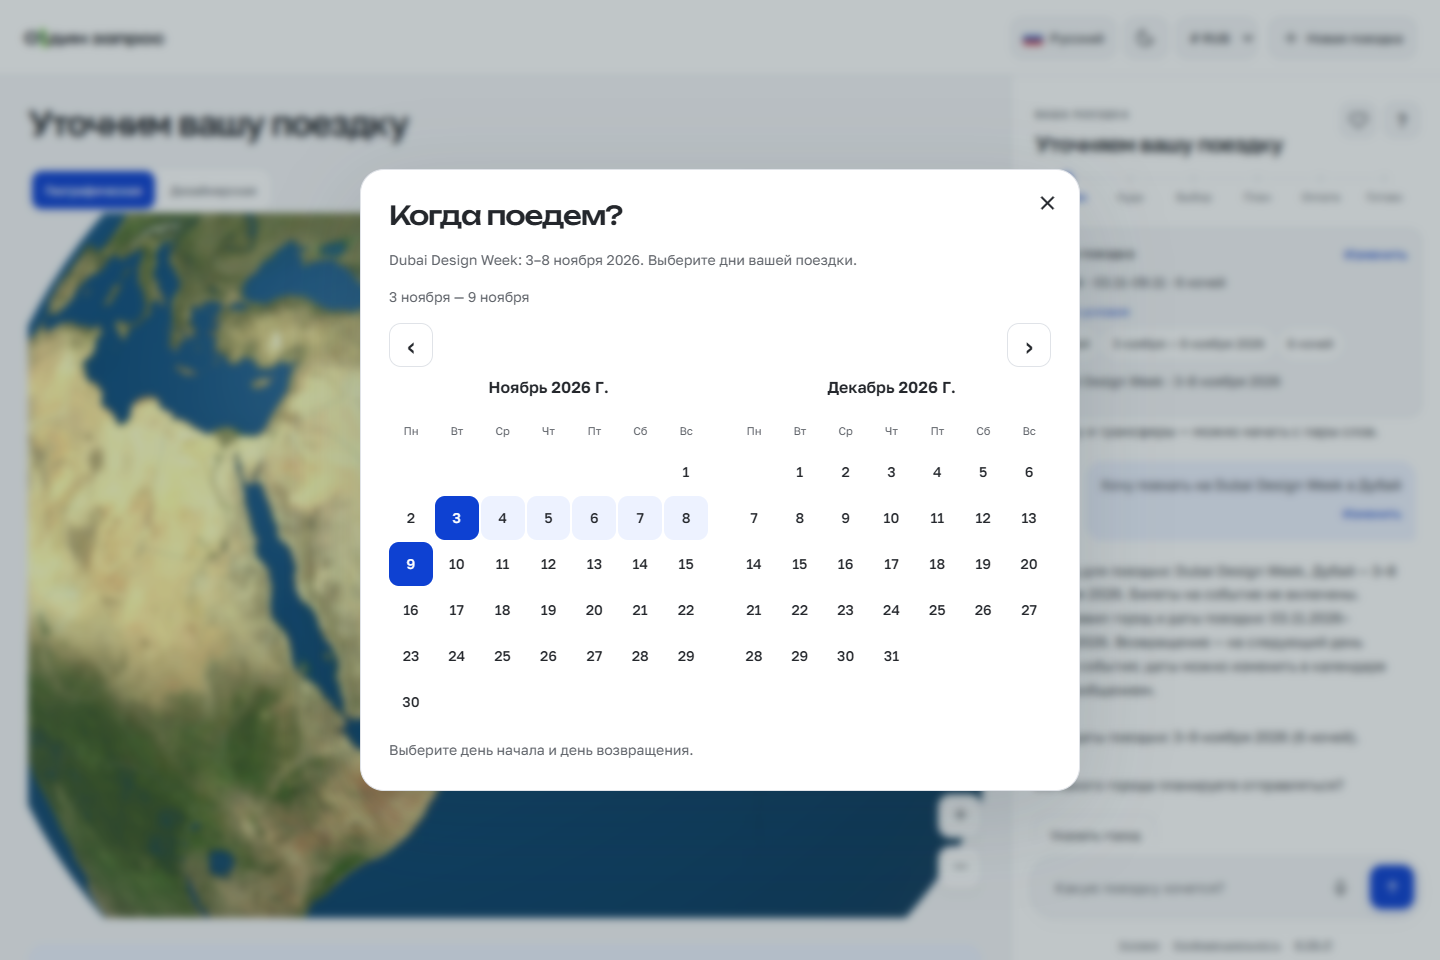
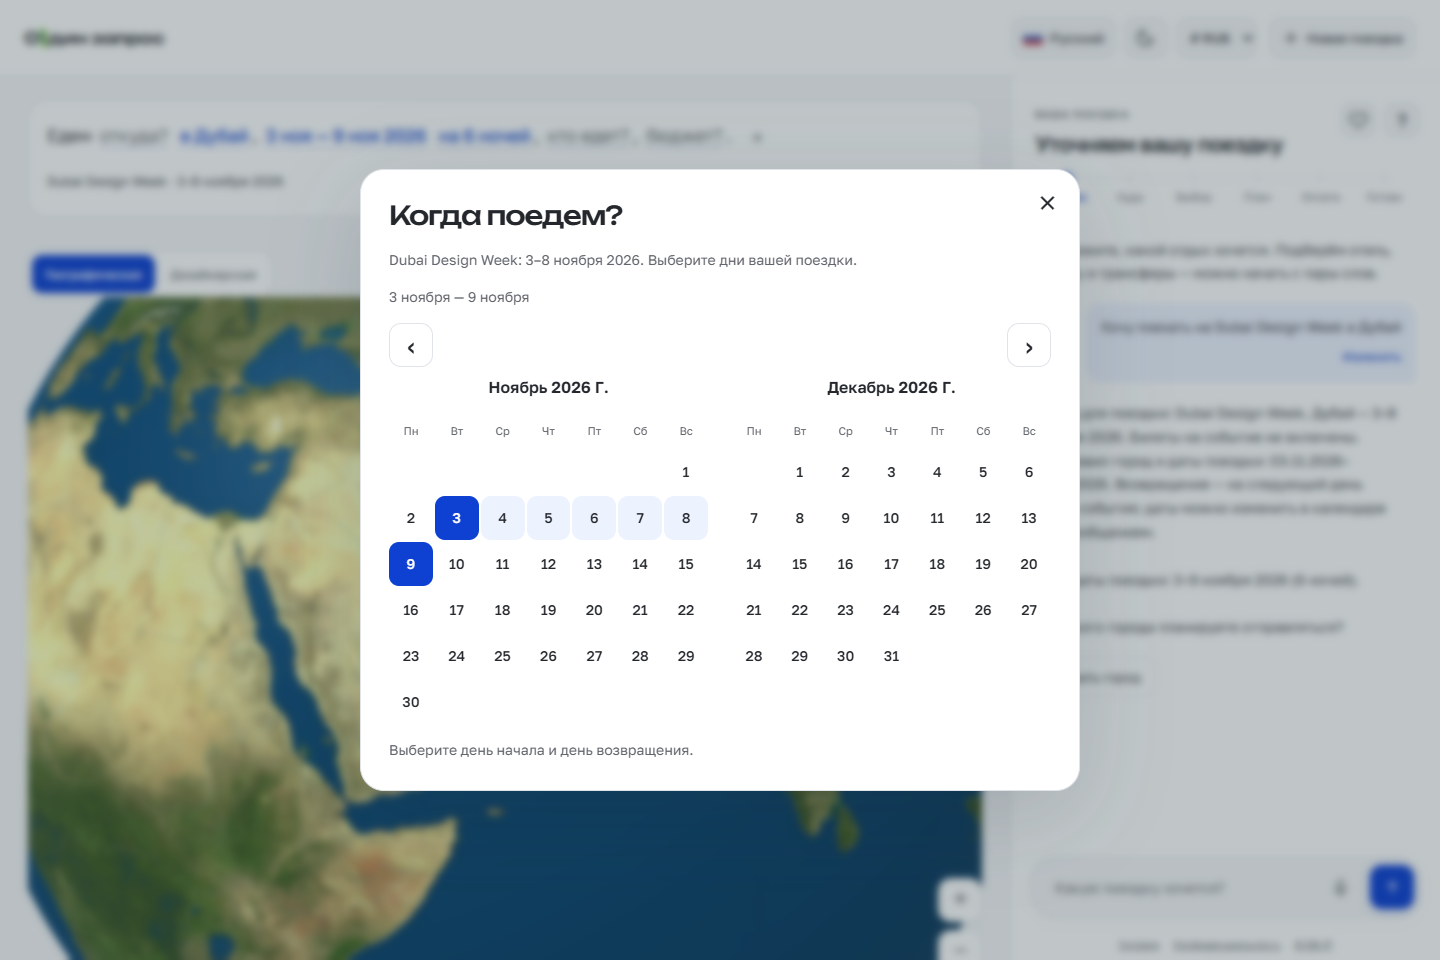
Verify integrated trip sentence and publish review evidence

diff --git a/docs/38_Ревью_диалога_и_архитектуры_20261029.md b/docs/38_Ревью_диалога_и_архитектуры_20261029.md
@@ -5,6 +5,8 @@
 Исходная версия: `origin/artemiy`, `4d215d97a5a6513618bd7274d62779beed559156`.
 Рабочая ветка: `codex/dialogue-architecture-20261029`.
 Первый проверенный коммит реализации: `cfa53782d7f5cde693fede5a07c21c0bef4ee820`.
+
+Во время ревью общая ветка обновилась. В итог включён `origin/artemiy` на `6693512c4a6dba729084f57032ee568af529b303`: редактируемая строка условий над картой и компактное представление на телефоне. Конфликт календаря разрешён с сохранением нового обработчика изменений. Проверенный объединённый код: `8531ebde98c48ca6c5640996e2310ff36a248e8f`. Город и даты события заполняются именно в новой строке; для длинного сезона поле показывает период и предлагает выбрать дни.
 На момент сверки `origin/main` указывал на `28a7006de302dae00e88e55774fddd59727ee39e` и не содержал всю объединённую работу. Поэтому ревью выполнено на более полной ветке `artemiy`. Незавершённые соседние рабочие копии не изменялись. Релиз и развёртывание не выполнялись.
 
 Задача: улучшить понимание намерения, уместность ответов и архитектурные границы; дополнительно исправить заполнение места и дат при выборе события. Это изменения приложения вокруг существующей GigaChat-2-Max, а не обучение новой языковой модели.
@@ -95,6 +97,8 @@ python -m eval.travel_review_20261029 --only no_fake_confirmation --output pause
 ```
 
 PowerShell: вместо префикса команды задайте `$env:ODIN_MODE='rules'`; для модельных прогонов — `models` и собственную разрешённую конфигурацию. Для тестов карты требуется `python -m tools.build_map_catalog` либо готовый индекс текущих публичных снимков. В этом ревью использованы уже установленные совместимые зависимости и существующий индекс, без копирования ключей и профилей. Новый Docker-образ не собирался, установленное приложение не заменялось.
+
+После объединения с актуальной строкой условий: **862 passed, 4 warnings in 107.06s (0:01:47)**. Браузерный сценарий повторён на объединённом коде: **12/12**, ошибок JavaScript нет. Проверены заполненная строка, компактный мобильный блок, раскрытие дат, календарь и восстановление после перезагрузки. [Календарь](evidence/dialogue_architecture_20261029/event-calendar.png), [мобильный экран](evidence/dialogue_architecture_20261029/event-mobile.png), [длинный сезон](evidence/dialogue_architecture_20261029/event-season.png).
 
 ## Что ещё требуется для сильной защиты
 
